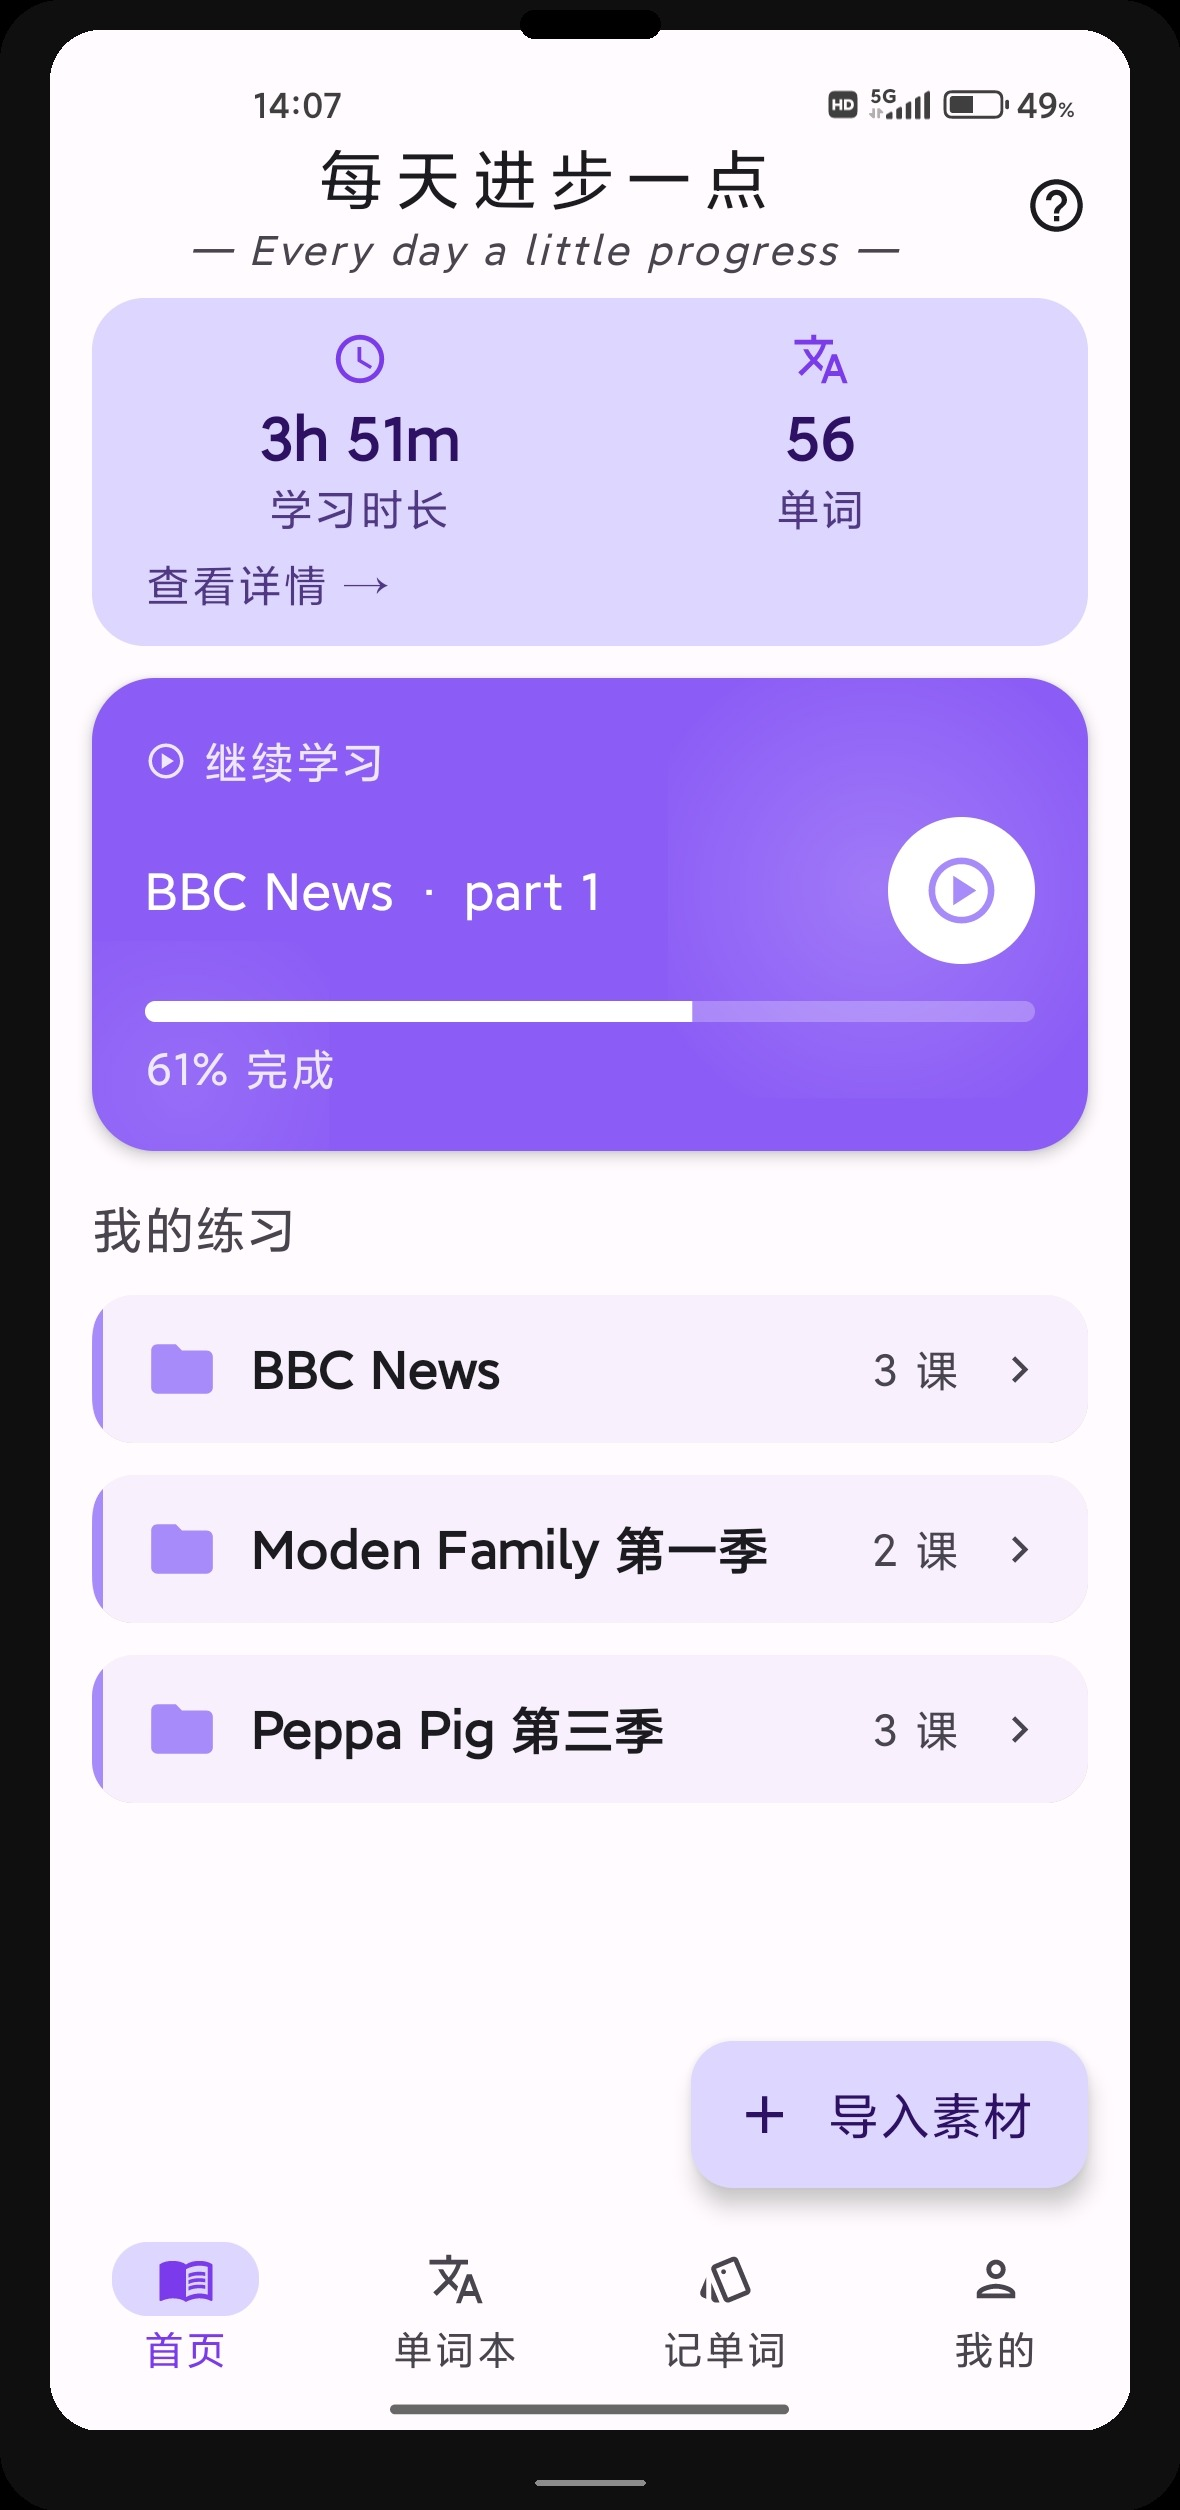
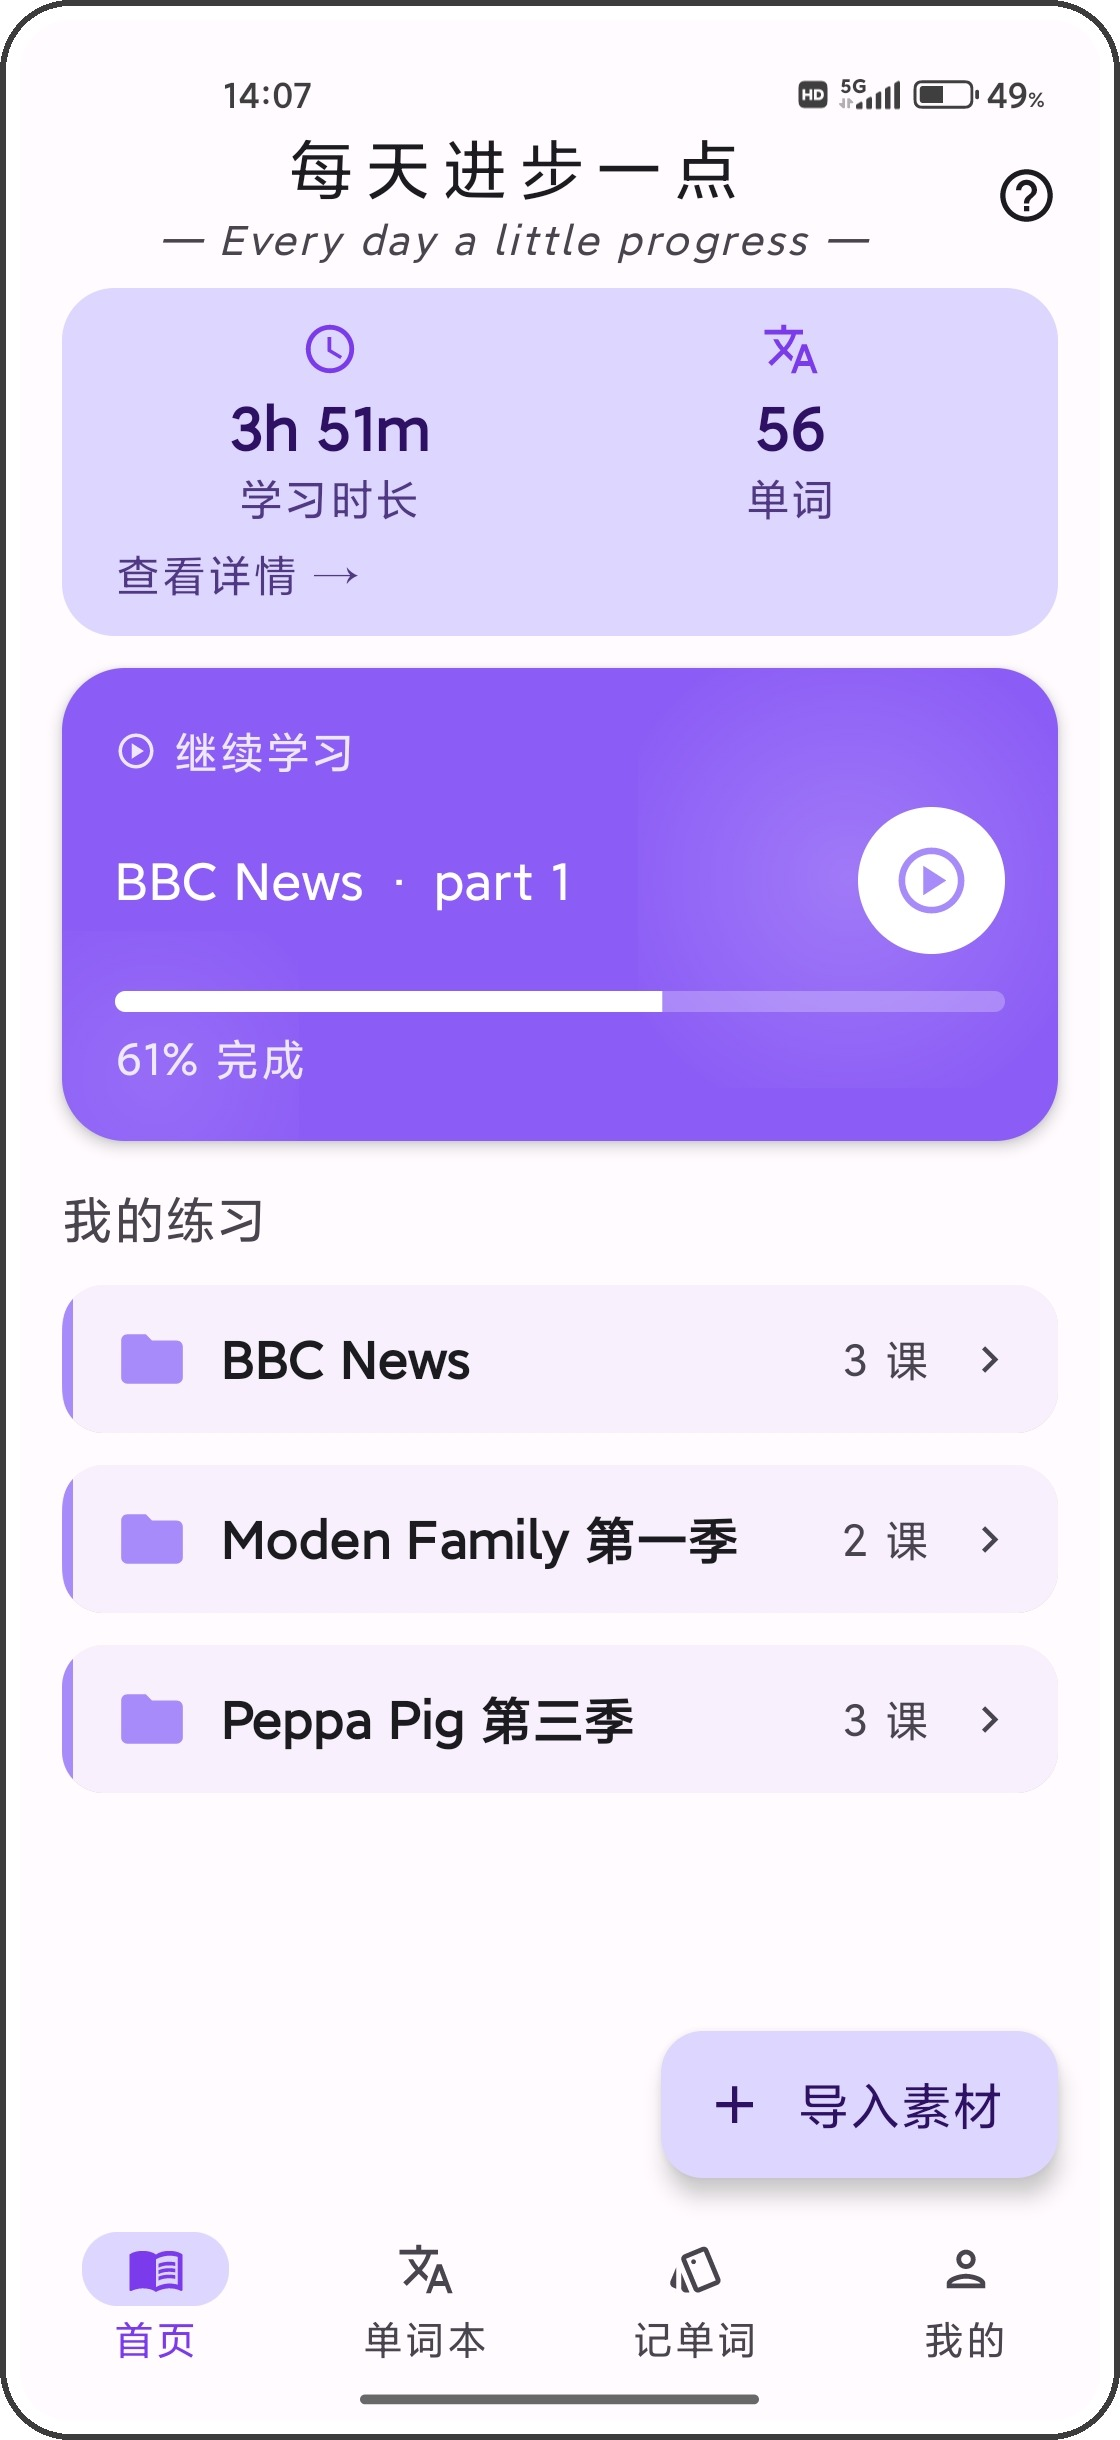
docs(readme): switch phone frame to thin rounded outline (no bezel)
User preferred the lighter outline-style frame (PNG with transparent
checkerboard background) over the previous dark phone-body mockup with
notch and home indicator. New frame:
  - rounds the screenshot corners (radius 50)
  - pads with 20px white margin
  - draws a 6px dark-gray (60,60,60) rounded outline around the screenshot
No notch, no home indicator, no opaque bezel. Source screenshots
restored from 68c8660 before re-framing.

diff --git a/scripts/frame_screenshots.py b/scripts/frame_screenshots.py
@@ -1,77 +1,51 @@
-"""Add a phone-style device frame to each app screenshot.
+"""Add a thin device frame to each app screenshot.
 
-Source screenshots are 1080x2400 (phone aspect). This script overlays:
-  - dark bezel (rounded rectangle outside the screenshot)
-  - screen with rounded corners (so the screenshot is "fitted" inside)
-  - small notch (pill at top center)
-  - home indicator (small bar at bottom center)
-Output: same files, regenerated in place as JPEG.
+Source screenshots are 1080x2400 (phone aspect). This script:
+  - rounds the screenshot corners
+  - pads with a small transparent/white margin
+  - draws a thin gray rounded-rectangle outline around the screenshot
+No notch, no home indicator, no dark bezel — just a clean outline.
 """
 from PIL import Image, ImageDraw
 from pathlib import Path
 
 SRC_DIR = Path("docs/app-screenshots")
 
-# Frame parameters — sized so the bezel reads ~12px on a 280px display.
-BEZEL_TOP = 30       # status bar / notch region
-BEZEL_BOTTOM = 80    # chin with home indicator
-BEZEL_SIDE = 50      # left/right bezel
-OUTER_RADIUS = 60    # outer corner radius
-INNER_RADIUS = 50    # screen corner radius (where screenshot meets bezel)
-PHONE_COLOR = (15, 15, 15)
-
-NOTCH_W = 140
-NOTCH_H = 28
-NOTCH_COLOR = (0, 0, 0)
-
-INDICATOR_W = 110
-INDICATOR_H = 5
-INDICATOR_COLOR = (140, 140, 140)
+MARGIN = 20            # padding around the screenshot (becomes the border zone)
+BORDER_W = 6           # thickness of the visible border line
+BORDER_COLOR = (60, 60, 60)  # dark gray for clear visibility
+RADIUS = 50            # corner radius of the screenshot itself
+BG = (255, 255, 255)   # background color (white, matches GitHub README)
 
 
 def frame_one(src_path: Path) -> None:
     img = Image.open(src_path).convert("RGB")
     w, h = img.size
 
-    new_w = w + 2 * BEZEL_SIDE
-    new_h = h + BEZEL_TOP + BEZEL_BOTTOM
-
-    # Build the phone body as RGBA so we can composite the screen cleanly.
-    body = Image.new("RGBA", (new_w, new_h), (0, 0, 0, 0))
-    body_draw = ImageDraw.Draw(body)
-    body_draw.rounded_rectangle(
-        (0, 0, new_w, new_h),
-        radius=OUTER_RADIUS,
-        fill=PHONE_COLOR + (255,),
-    )
-
-    # Round the screen so it sits inside the bezel with smooth corners.
+    # Round the screenshot corners
     screen_mask = Image.new("L", (w, h), 0)
     ImageDraw.Draw(screen_mask).rounded_rectangle(
-        (0, 0, w, h),
-        radius=INNER_RADIUS,
-        fill=255,
-    )
-    body.paste(img, (BEZEL_SIDE, BEZEL_TOP), screen_mask)
-
-    # Notch (pill at top center).
-    notch_x = (new_w - NOTCH_W) // 2
-    body_draw.rounded_rectangle(
-        (notch_x, 10, notch_x + NOTCH_W, 10 + NOTCH_H),
-        radius=14,
-        fill=NOTCH_COLOR,
+        (0, 0, w, h), radius=RADIUS, fill=255
     )
 
-    # Home indicator.
-    ind_x = (new_w - INDICATOR_W) // 2
-    ind_y = new_h - 30
-    body_draw.rounded_rectangle(
-        (ind_x, ind_y, ind_x + INDICATOR_W, ind_y + INDICATOR_H),
-        radius=2,
-        fill=INDICATOR_COLOR,
+    # New image with margin (white background)
+    new_w = w + 2 * MARGIN
+    new_h = h + 2 * MARGIN
+    new_img = Image.new("RGB", (new_w, new_h), BG)
+
+    # Paste rounded screenshot onto white background
+    new_img.paste(img, (MARGIN, MARGIN), screen_mask)
+
+    # Draw thin border around outer edge
+    draw = ImageDraw.Draw(new_img)
+    draw.rounded_rectangle(
+        (0, 0, new_w - 1, new_h - 1),
+        radius=RADIUS + MARGIN,
+        outline=BORDER_COLOR,
+        width=BORDER_W,
     )
 
-    body.convert("RGB").save(src_path, quality=92, optimize=True)
+    new_img.save(src_path, quality=92, optimize=True)
 
 
 def main() -> None:
